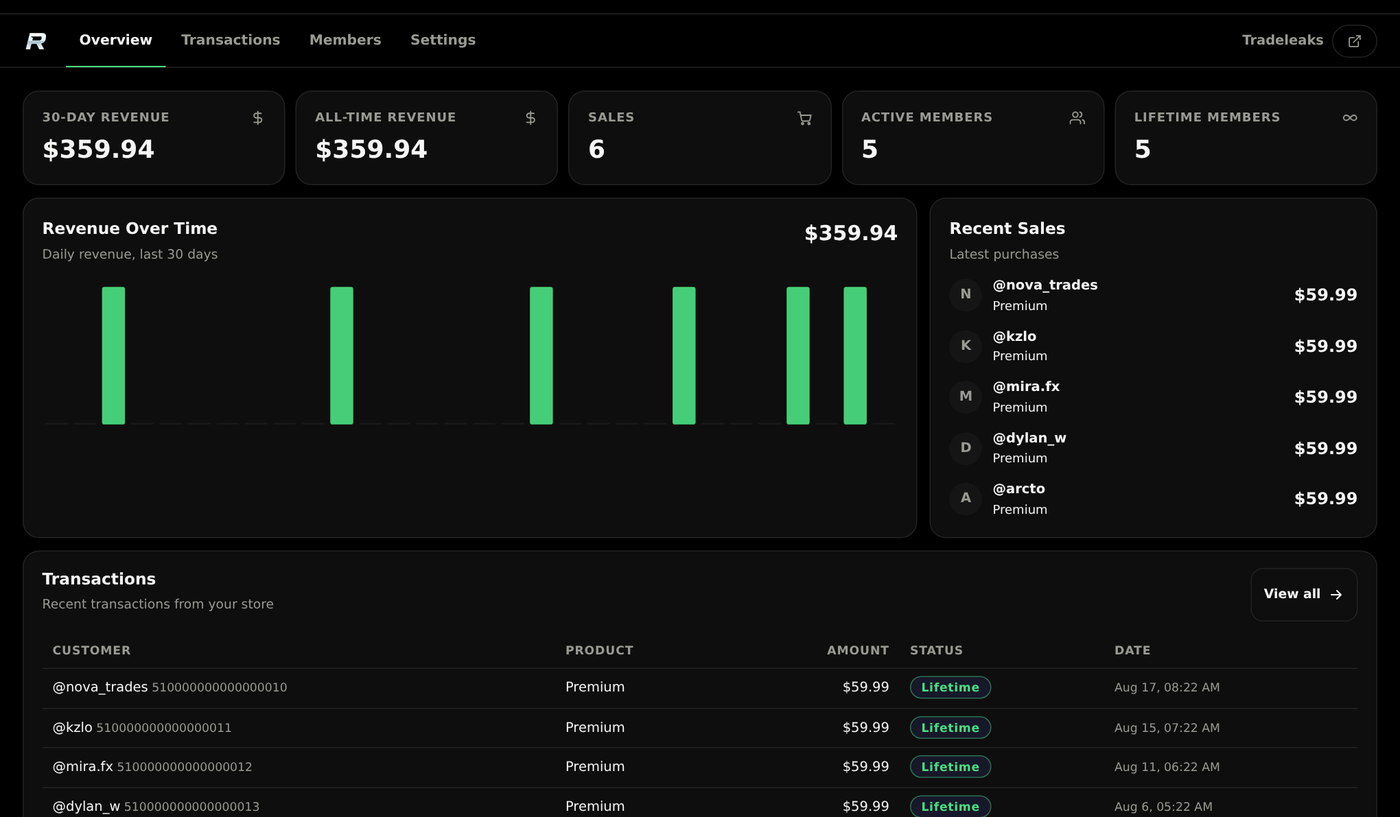
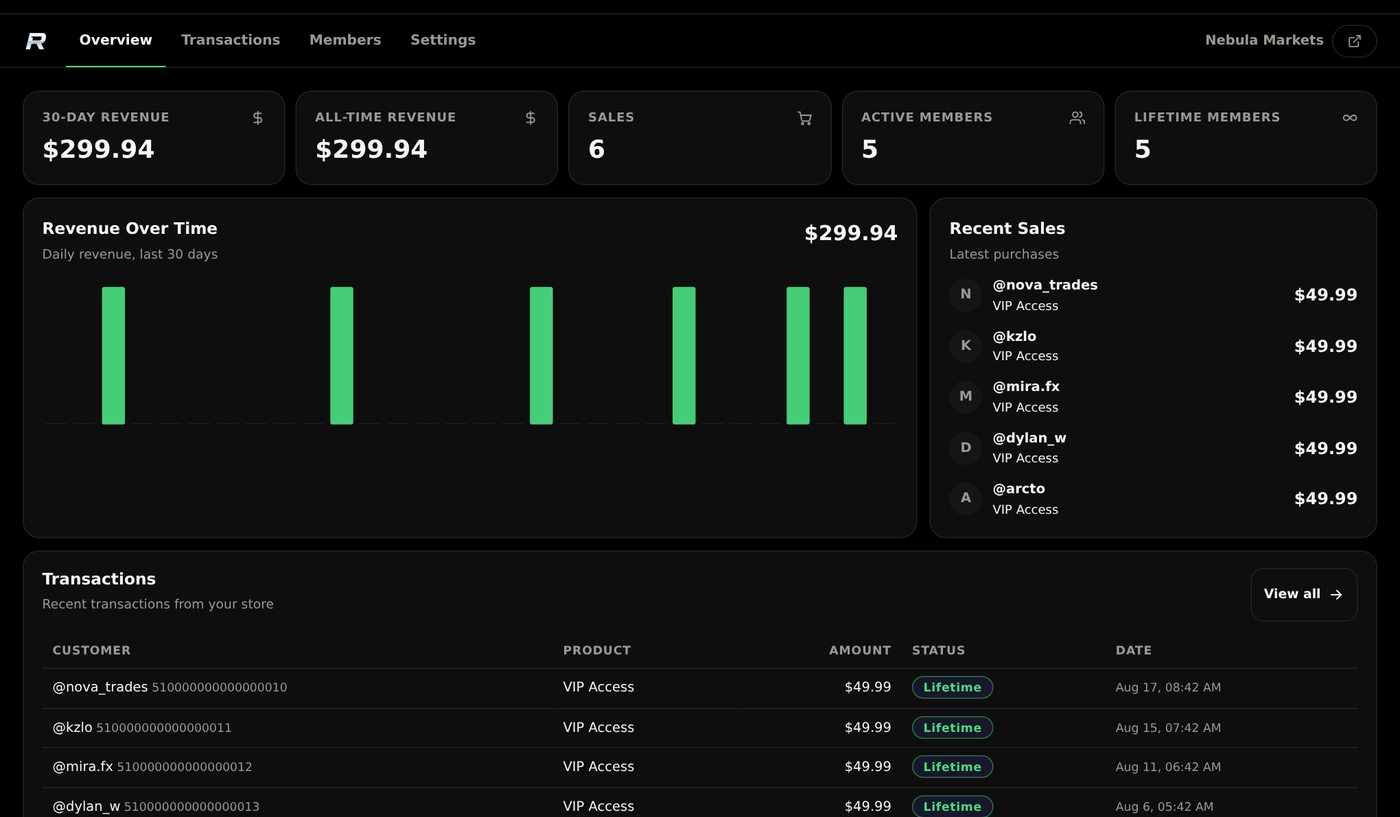
Homepage is platform-only: no tenant names or imagery
Ripley's landing shows a neutral demo store (Nebula Markets / VIP Access)
in every screenshot and the delivery demo card; the featured-store CTA
keeps a generic label. Default-store brand is now env-driven (BRAND).

Claude-Session: https://claude.ai/code/session_01Vxwz97AdnQQxpbAGeSFrmV

diff --git a/discord-paygate/public/index.html b/discord-paygate/public/index.html
@@ -84,8 +84,8 @@
         <div class="frow-visual">
           <div class="demo-card panel" aria-hidden="true">
             <div class="demo-row demo-head"><span class="demo-dot"></span><span>Ripley</span><span class="demo-time">just now</span></div>
-            <div class="demo-row"><span class="demo-check">✓</span><div><strong>Payment completed</strong><br /><span class="demo-dim">Premium — $59.99 · lifetime</span></div></div>
-            <div class="demo-row"><span class="demo-check">✓</span><div><strong>Role granted</strong><br /><span class="demo-dim">@PREMIUM added in 1.4s</span></div></div>
+            <div class="demo-row"><span class="demo-check">✓</span><div><strong>Payment completed</strong><br /><span class="demo-dim">VIP Access — $49.99 · lifetime</span></div></div>
+            <div class="demo-row"><span class="demo-check">✓</span><div><strong>Role granted</strong><br /><span class="demo-dim">@VIP added in 1.4s</span></div></div>
             <div class="demo-row"><span class="demo-check">✓</span><div><strong>Receipt sent</strong><br /><span class="demo-dim">Emailed to the buyer</span></div></div>
           </div>
         </div>

diff --git a/discord-paygate/public/home.js b/discord-paygate/public/home.js
@@ -2,9 +2,7 @@ const $ = (sel) => document.querySelector(sel);
 const esc = (s) => String(s ?? '').replace(/[&<>"']/g, (c) => ({ '&': '&amp;', '<': '&lt;', '>': '&gt;', '"': '&quot;', "'": '&#39;' }[c]));
 
 async function load() {
-  const [meRes, plansRes] = await Promise.all([fetch('/api/me'), fetch('/api/plans')]);
-  const me = await meRes.json().catch(() => ({ loggedIn: false }));
-  const data = await plansRes.json().catch(() => null);
+  const me = await (await fetch('/api/me')).json().catch(() => ({ loggedIn: false }));
 
   const account = $('#account');
   if (me.loggedIn) {
@@ -20,10 +18,6 @@ async function load() {
     $('#login').onclick = () => (window.location.href = '/auth/login');
   }
 
-  // Point "Visit a live store" at the featured store with its real name.
-  const server = data?.server;
-  const link = $('#hero-store');
-  if (link && server?.name) link.textContent = `Visit ${server.name}`;
 }
 
 load().catch(() => {});

diff --git a/discord-paygate/src/config.js b/discord-paygate/src/config.js
@@ -55,7 +55,7 @@ export const config = {
   // Ripley is the host checkout platform; the product being sold is the
   // Discord server itself (DISCORD_GUILD_NAME, e.g. Tradeleaks).
   platform: env('PLATFORM_NAME', 'Ripley'),
-  brand: 'Tradeleaks',
+  brand: env('BRAND') || 'Tradeleaks',
   // Discord user id of the store owner: unlocks the /diagnostics view.
   ownerDiscordId: env('OWNER_DISCORD_ID'),
   port: num('PORT', 4000),
